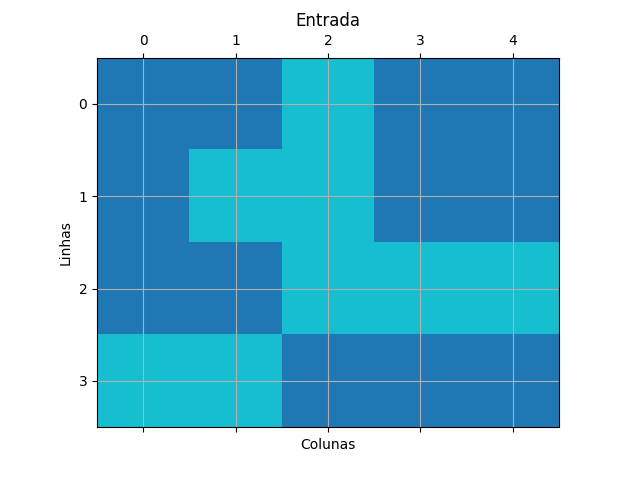
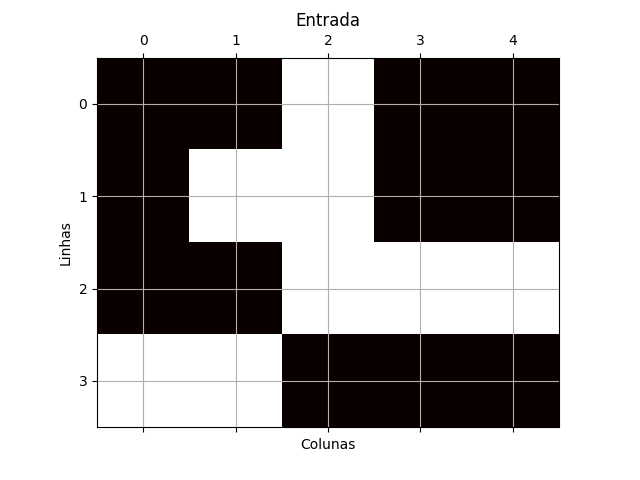
ajustes: Plot colormap

diff --git a/flood_fill_python/main.py b/flood_fill_python/main.py
@@ -46,7 +46,7 @@ def plot_grid(grid, title="Grid"):
     import os
 
     grid_np = np.array(grid)
-    cmap = plt.cm.get_cmap('tab10', np.max(grid_np) + 1)
+    cmap = plt.cm.get_cmap('hot', np.max(grid_np) + 1)
 
     fig, ax = plt.subplots()
     ax.matshow(grid_np, cmap=cmap)

diff --git a/README.md b/README.md
@@ -1,40 +1,52 @@
 
-# FPAA-trabalho-grupo-01 - A* Path Finder
+# FPAA-trabalho-grupo-02 - Flood Fill
+> Mapeamento de Regiões com Obstáculos
 
 ## GRUPO
 - Gabriel Victor Couto Martins de Paula
 - Luís Antônio de Souza e Sousa
 
---- 
+---
 
-# A* Path Finder em Labirinto 2D
+## 📌 Descrição
 
-Este projeto implementa o **Algoritmo A\*** para encontrar o menor caminho entre dois pontos em um labirinto 2D. O algoritmo considera obstáculos, utiliza a **distância de Manhattan como heurística** e garante a solução mais eficiente, se existir.
+Este projeto implementa o **Algoritmo Flood Fill** para identificação e preenchimento automático de **regiões conectadas** em um **terreno 2D**, representado como um grid de células.
+
+O objetivo é simular um sistema de mapeamento inteligente, utilizado por **robôs autônomos**, que precisam identificar áreas navegáveis separadas por obstáculos, preenchendo-as com cores distintas para posterior análise e navegação.
 
 ---
 
-## 🧩 Problema Resolvido
+## 🔍 Problema Resolvido
 
-Dado um labirinto 2D representado como uma matriz com células livres (`0`), obstáculos (`1`), um ponto de início (`S`) e um ponto final (`E`), o objetivo é encontrar o caminho mais curto entre `S` e `E` utilizando o Algoritmo A\*.
+Dado um grid 2D onde:
 
-Se não houver caminho possível, o programa retorna `"Nenhum caminho encontrado"`.
+- `0` representa **espaço livre** (navegável)
+- `1` representa **obstáculos** (paredes, barreiras)
+- `2, 3, 4,...` representam **regiões já preenchidas**
+
+O algoritmo deve:
+
+1. Identificar a **região conectada** à partir de uma **posição inicial (x, y)**.
+2. Preencher essa região com uma **cor numérica única**.
+3. Repetir o processo para todas as demais regiões livres do grid, utilizando cores incrementais.
+
+O preenchimento respeita obstáculos e apenas considera conexões **ortogonais** (cima, baixo, esquerda, direita).
 
 ---
 
-## 🔍 Funcionamento do Algoritmo A\*
+## 💡 Funcionamento do Algoritmo Flood Fill
 
-O **Algoritmo A\*** é uma estratégia de busca heurística que combina dois fatores:
+O **Flood Fill** é um algoritmo de propagação em **largura** ou **profundidade**, semelhante ao usado em editores gráficos para preencher áreas com uma cor.
 
-- **g(n)**: o custo do caminho percorrido do início até o nó `n`.
-- **h(n)**: a estimativa do custo restante até o destino — neste caso, calculado com **distância de Manhattan**:
+### Etapas:
 
-  \[
-  h(n) = |x_1 - x_2| + |y_1 - y_2|
-  \]
-
-O algoritmo escolhe os caminhos com menor valor total `f(n) = g(n) + h(n)`, priorizando movimentos promissores.
-
-O labirinto é explorado em quatro direções (cima, baixo, esquerda, direita), ignorando obstáculos (`1`).
+1. Começa a partir da célula inicial `(x, y)`.
+2. Verifica se ela é um espaço livre (`0`).
+3. Se for, colore com uma nova cor (ex: `2`) e coloca na fila.
+4. Itera sobre seus vizinhos ortogonais (não diagonais).
+5. Se o vizinho for `0`, colore com a mesma cor e adiciona à fila.
+6. Repete até esvaziar a fila.
+7. Após preencher a primeira região, o algoritmo busca por outros `0`s no grid e repete o processo com cores crescentes.
 
 ---
 
@@ -69,6 +81,11 @@ pip install -r requirements.txt
 python3 main.py
 ```
 
+O resultado será salvo automaticamente como imagens:
+
+* `Entrada.png` — o grid original
+* `Saída.png` — o grid com as regiões preenchidas em cores
+
 ---
 
 ## 🐳 Executar com Docker (Opcional)
@@ -81,63 +98,111 @@ sudo docker compose up --build -d
 
 ---
 
-## ✅ Validações Importantes
+## 📸 Exemplos
 
-* O programa verifica se há um ponto de início `S` e um fim `E`.
-* Caso o caminho seja impossível (devido a obstáculos), o algoritmo retorna: `Nenhum caminho encontrado.`
+### 🧪 Exemplo 1
+
+#### Grid de Entrada:
+
+```
+0 0 1 0 0  
+0 1 1 0 0  
+0 0 1 1 1  
+1 1 0 0 0  
+```
+
+**Coordenada inicial:** `(0, 0)`
+
+#### Grid de Saída:
+
+```
+2 2 1 3 3  
+2 1 1 3 3  
+2 2 1 1 1  
+1 1 4 4 4  
+```
 
 ---
 
-## 💡 Exemplo de Entrada
+### 🧪 Exemplo 2
 
-```python
-labirinto = [
-    ['S', '0', '1', '0', '0'],
-    ['0', '0', '1', '0', '1'],
-    ['1', '0', '1', '0', '0'],
-    ['1', '0', '0', 'E', '1'],
-]
-```
-
-## 🔎 Saída Esperada
+#### Grid de Entrada:
 
 ```
-Labirinto com caminho:
-S * 1 0 0
-0 * 1 0 1
-1 * 1 0 0
-1 * * E 1
+0 1 0 0 1  
+0 1 0 0 1  
+0 1 1 1 1  
+0 0 0 1 0  
 ```
 
+**Coordenada inicial:** `(0, 2)`
+
+#### Grid de Saída:
+
+```
+3 1 2 2 1  
+3 1 2 2 1  
+3 1 1 1 1  
+3 3 3 1 4  
+```
+
+---
+
+## Plot de Imagens
+
+### Entrada:
+
+![](/flood_fill_python/Entrada.png)
+
+### Saida:
+
+![](/flood_fill_python/Saída.png)
+
+## 🧪 Testes Unitários
+
+O arquivo `test_flood_fill.py` contém testes automáticos com `pytest` para validar o algoritmo com diferentes configurações de entrada:
+
+* Grids simples com e sem obstáculos
+* Cenários sem caminho disponível
+* Casos onde a célula inicial já está preenchida
+* Casos com múltiplas regiões desconectadas
+
+### Rodar testes:
+
+```bash
+pytest test_flood_fill.py
+```
 ---
 
 ## 📁 Estrutura do Projeto
 
+```sh
+.  
+├── flood_fill_python  
+│   ├── Entrada.png  
+│   ├── main.py  
+│   ├── mazegen.py  
+│   ├── requirements.txt  
+│   ├── Saída.png  
+│   ├── test_flood_fill.py  
+│   └── venv/  
+├── flood_fill_rust  
+│   └── ...  
+├── docker-compose.yml  
+├── Dockerfile.python  
+├── Dockerfile.rust  
+├── README.md  
+├── pseudocodigo.txt  
+├── test.sh  
 ```
-.
-├── ci_docker.sh
-├── clean_docker.sh
-├── docker-compose.yml
-├── Dockerfile.python
-├── Dockerfile.rust
-├── img
-│   ├── grafo_python.png
-│   └── grafo_rust.png
-├── flood_fill_python
-│   ├── main.py
-│   ├── __pycache__
-│   ├── requirements.txt
-│   ├── test_flood_fill.py
-│   └── venv
-├── flood_fill_rust
-│   ├── Cargo.lock
-│   ├── Cargo.toml
-│   ├── README.md
-│   ├── src
-│   └── target
-├── pseudocodigo.txt
-├── README.md
-├── test.sh
-└── Trabalho em grupo 1 - Valor 10 pontos-1-1.pdf
 
-```
+---
+
+## 📚 Referências
+
+* Algoritmo Flood Fill: [https://en.wikipedia.org/wiki/Flood\_fill](https://en.wikipedia.org/wiki/Flood_fill)
+* Documentação do `matplotlib`: [https://matplotlib.org/stable/](https://matplotlib.org/stable/)
+* `deque` em Python: [https://docs.python.org/3/library/collections.html#collections.deque](https://docs.python.org/3/library/collections.html#collections.deque)
+
+---
+
